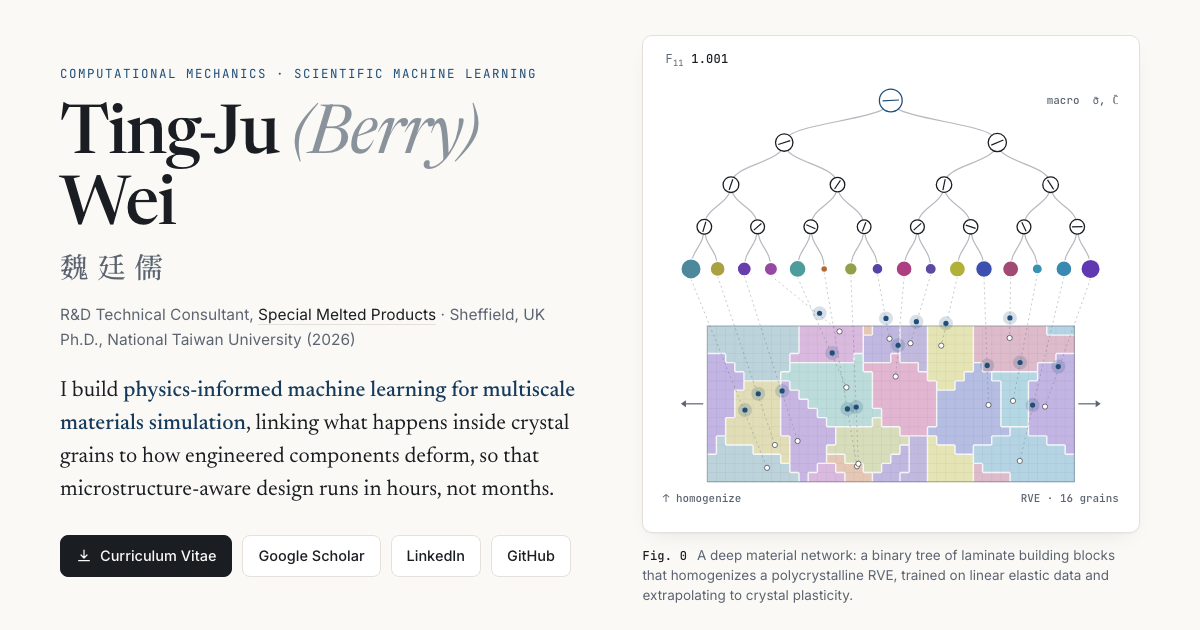
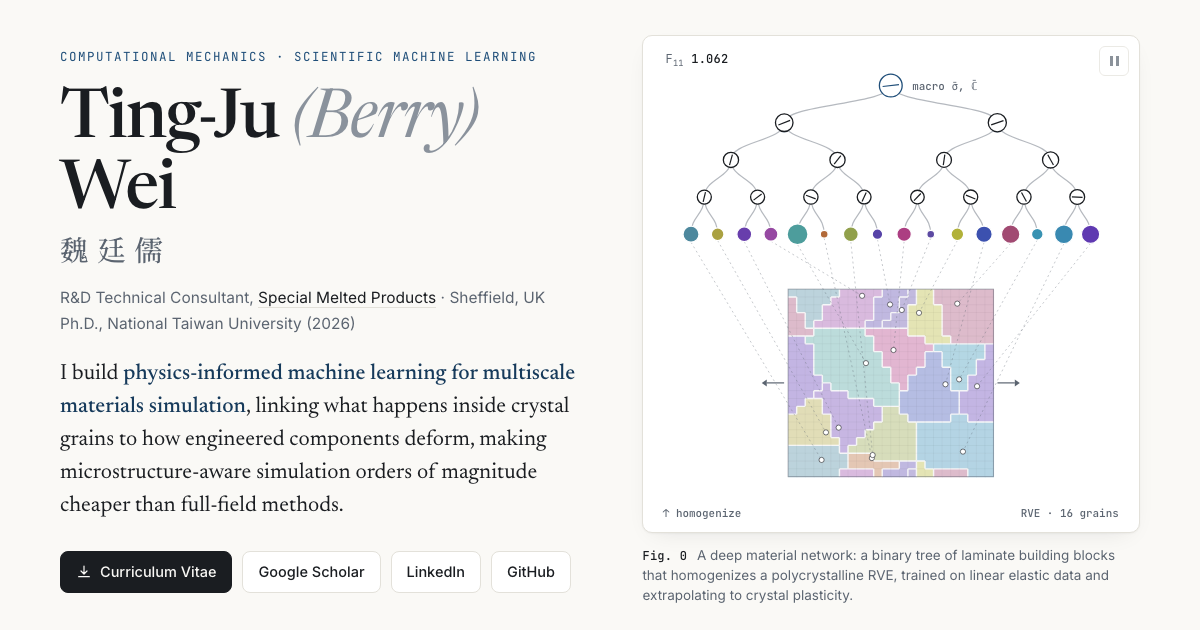
Remove L-bracket figure, square hero RVE, fix overflowing elements
- Drop the unpublished GSH-ODMN L-bracket figure; component-scale project is text-only
- Fig. 0: square 24x24 voxel RVE, rebalanced tree layout, labels pinned inside canvas
- Move animation pause button so it no longer covers the RVE label
- Keep the gold honors highlight inside its column instead of bleeding left

diff --git a/css/style.css b/css/style.css
@@ -125,7 +125,7 @@ sub, sup { line-height: 0; font-size: .72em; }
 .hero__canvas canvas { width: 100%; height: 100%; }
 .hero__readout { position: absolute; left: 14px; top: 12px; font-size: 12px; color: var(--muted); background: color-mix(in srgb, var(--surface) 80%, transparent); padding: 2px 8px; border-radius: 4px; }
 .hero__readout b { color: var(--text); font-weight: 500; }
-.hero__pause { position: absolute; right: 10px; bottom: 10px; width: 30px; height: 30px; border-radius: 6px; border: 1px solid var(--rule); background: var(--surface); color: var(--muted); cursor: pointer; display: grid; place-items: center; opacity: .7; transition: opacity .15s; }
+.hero__pause { position: absolute; right: 10px; top: 10px; width: 30px; height: 30px; border-radius: 6px; border: 1px solid var(--rule); background: var(--surface); color: var(--muted); cursor: pointer; display: grid; place-items: center; opacity: .7; transition: opacity .15s; }
 .hero__pause:hover, .hero__pause:focus-visible { opacity: 1; color: var(--text); }
 .hero__pause span { width: 9px; height: 10px; border-left: 3px solid currentColor; border-right: 3px solid currentColor; }
 .hero__pause[aria-pressed="true"] span { width: 0; height: 0; border: 0; border-left: 9px solid currentColor; border-top: 5.5px solid transparent; border-bottom: 5.5px solid transparent; margin-left: 2px; }
@@ -235,11 +235,11 @@ figcaption { font-size: 13.5px; color: var(--muted); line-height: 1.5; margin-to
 
 /* honors */
 .honors { list-style: none; padding: 0; margin: 0; }
-.honor { display: grid; grid-template-columns: 64px minmax(0, 1fr); gap: 20px; padding: 16px 0; border-bottom: 1px solid var(--rule); }
+.honor { display: grid; grid-template-columns: 64px minmax(0, 1fr); gap: 20px; padding: 16px 0 16px 16px; border-bottom: 1px solid var(--rule); border-left: 3px solid transparent; }
 .honor__yr { font-size: 13px; color: var(--faint); padding-top: 3px; }
 .honor__t { font-weight: 600; margin: 0 0 2px; font-size: 16px; }
 .honor__d { color: var(--muted); font-size: 14.5px; margin: 0; }
-.honor--key { position: relative; background: linear-gradient(90deg, var(--gold-tint), transparent 70%); border-left: 3px solid var(--gold); padding-left: 16px; margin-left: -19px; }
+.honor--key { background: linear-gradient(90deg, var(--gold-tint), transparent 70%); border-left-color: var(--gold); }
 .honor--key .honor__yr { color: var(--gold); font-weight: 500; }
 
 /* cv */
@@ -316,7 +316,6 @@ figcaption { font-size: 13.5px; color: var(--muted); line-height: 1.5; margin-to
   .pub__thumb { width: 100%; max-width: 168px; }
   .news li { grid-template-columns: 1fr; gap: 2px; }
   .honor { grid-template-columns: 1fr; gap: 2px; }
-  .honor--key { margin-left: 0; }
   .toolbox dl > div { grid-template-columns: 1fr; gap: 2px; }
   .beyond { grid-template-columns: 1fr; }
   .footer__grid { grid-template-columns: 1fr; }
@@ -335,3 +334,7 @@ figcaption { font-size: 13.5px; color: var(--muted); line-height: 1.5; margin-to
   .footer { background: none; color: #000; }
   .footer__h, .footer__mail, .footer__links a, .footer__p, .footer__base { color: #000 !important; }
 }
+
+/* text-only project (no figure) */
+.project--text { grid-template-columns: minmax(0, 1fr); }
+.project--text .project__body { max-width: 780px; }

diff --git a/js/main.js b/js/main.js
@@ -145,7 +145,7 @@
   var rand = mulberry32(20260629);
 
   var DEPTH = 4, NLEAF = 1 << DEPTH;
-  var NX = 40, NY = 17;
+  var NX = 24, NY = 24; // square RVE (voxel slice)
 
   // seeds (one grain per leaf), periodic Voronoi
   var seeds = [];
@@ -209,7 +209,7 @@
     W = rect.width; H = rect.height;
     canvas.width = Math.round(W * dpr); canvas.height = Math.round(H * dpr);
     var pad = W * 0.07;
-    var top = H * 0.13, leafY = H * 0.47;
+    var top = H * 0.10, leafY = H * 0.40;
     for (var n = 0; n < nodes.length; n++) {
       var nd = nodes[n], cnt = 1 << nd.L;
       var span = W - 2 * pad;
@@ -217,9 +217,10 @@
       nd.y = top + (leafY - top) * (nd.L / DEPTH);
       nd.r = nd.L === DEPTH ? Math.max(3, Math.sqrt(nd.w) * W * 0.06) : Math.max(4.5, W * 0.013 + nd.w * W * 0.01);
     }
-    var gpad = W * 0.13; // leave room for the stretch (F11 up to 1.08) and load arrows
-    grid.cell = (W - 2 * gpad) / NX;
-    grid.x0 = gpad; grid.y0 = H * 0.585;
+    // square RVE, centred; side leaves room for the stretch (F11 up to 1.08) and labels
+    var side = Math.min(H * 0.39, W * 0.62);
+    grid.cell = side / NX;
+    grid.x0 = (W - side) / 2; grid.y0 = H * 0.505;
   }
 
   function easeInOut(t) { return t < 0.5 ? 2 * t * t : 1 - Math.pow(-2 * t + 2, 2) / 2; }
@@ -364,12 +365,14 @@
 
     // ---- labels ----
     c.font = '500 ' + Math.max(10, W * 0.022) + 'px "JetBrains Mono", ui-monospace, monospace';
-    c.fillStyle = colors.muted; c.textAlign = 'right';
+    c.fillStyle = colors.muted; c.textAlign = 'left';
     var rt = nodeAt(0, 0);
-    c.fillText('macro  σ̄, ℂ̄', W - W * 0.04, rt.y + 4);
-    c.fillText('RVE · ' + NLEAF + ' grains', W - W * 0.04, gy0 + NY * ch + Math.max(16, W * 0.04));
+    c.fillText('macro σ̄, ℂ̄', rt.x + rt.r + 10, rt.y + 4);
+    c.textAlign = 'right';
+    var labY = H - Math.max(10, W * 0.03);
+    c.fillText('RVE · ' + NLEAF + ' grains', W - W * 0.04, labY);
     c.textAlign = 'left';
-    c.fillText(upward === false && phase >= 0 ? '↓ downscale' : (phase < 0 ? '● update' : '↑ homogenize'), W * 0.04, gy0 + NY * ch + Math.max(16, W * 0.04));
+    c.fillText(upward === false && phase >= 0 ? '↓ downscale' : (phase < 0 ? '● update' : '↑ homogenize'), W * 0.04, labY);
 
     // ---- hover tooltip ----
     if (hover) {

diff --git a/index.html b/index.html
@@ -251,13 +251,7 @@
         </article>
 
         <!-- Project 5: Application -->
-        <article class="project" id="r-app">
-          <div class="project__media">
-            <figure>
-              <img src="media/gsh-lbracket.webp" width="1400" height="385" alt="Von Mises stress in an L-bracket simulated with GSH-ODMN at every integration point, for networks with N equal to 4, 6 and 8." loading="lazy" decoding="async">
-              <figcaption><span class="figno">Fig. 5</span> Texture-resolved structural simulation: an L-bracket with a GSH-ODMN at every integration point (N = 4, 6, 8).</figcaption>
-            </figure>
-          </div>
+        <article class="project project--text" id="r-app">
           <div class="project__body">
             <p class="project__venue"><span class="badge badge--soft">Ongoing</span></p>
             <h3>From RVE to component: forming and thermomechanics</h3>
